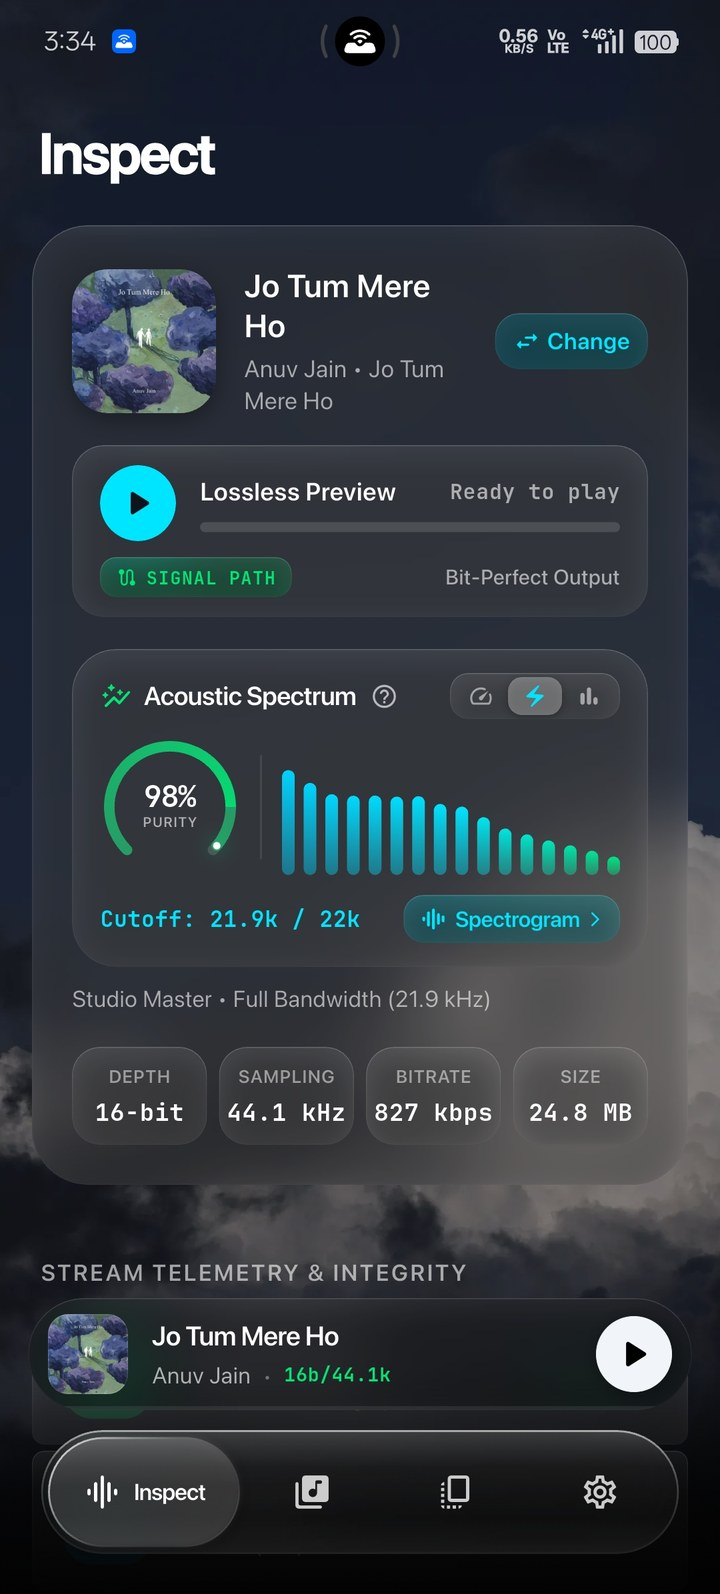
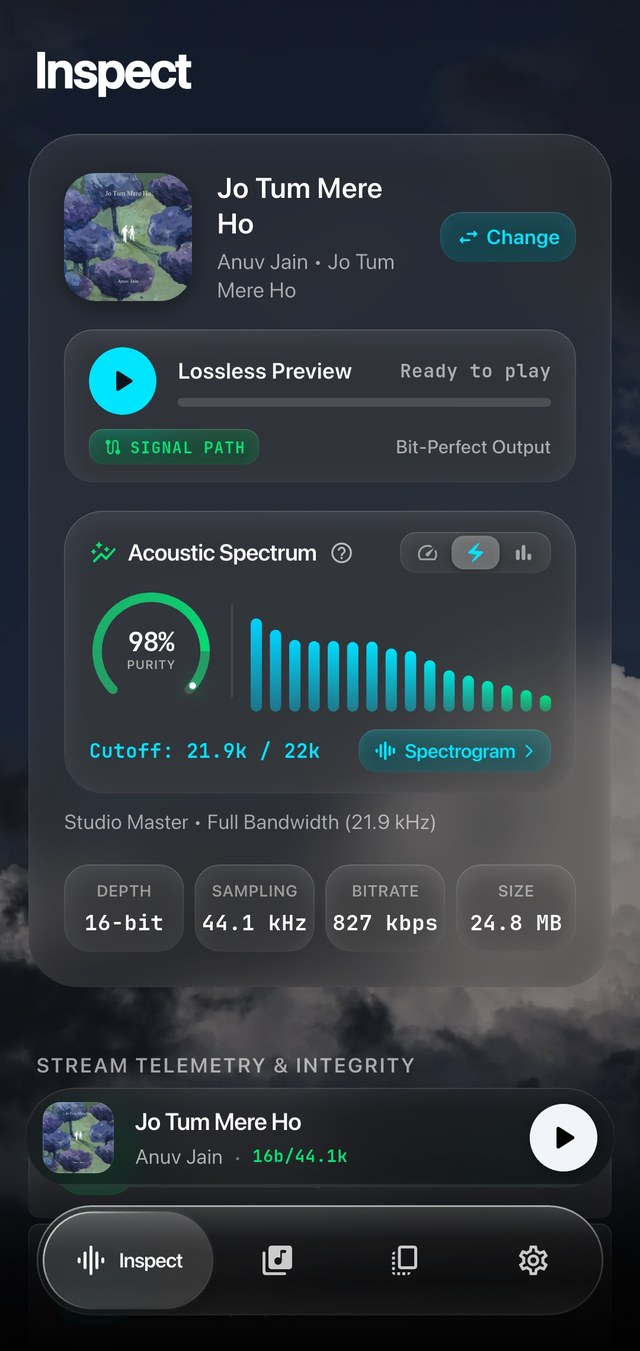
docs(readme): Polish showcase, crop screenshots & add CI APK SHA256 checksums

diff --git a/README.md b/README.md
@@ -1,235 +1,170 @@
 <div align="center">
 
-<img src="assets/images/logo_acoustiq.png" width="84" alt="AcoustiQ Logo" />
+<img src="assets/images/logo_acoustiq.png" width="88" alt="AcoustiQ Logo" />
 
 # AcoustiQ
 
-**Studio-grade lossless FLAC forensic inspector, bit-perfect audio verifier, and audiophile player for Android.**
+**Lossless FLAC forensic inspector, USB bit-perfect player & smart duplicate resolver for Android.**
 
-Verify genuine studio masters · Spot MP3-to-FLAC fakes · Resolve duplicates · Listen with synced lyrics & USB DAC pass-through
+<p>
+  <a href="https://github.com/Clash-Projects/acoustiq/releases/latest">
+    <img src="https://img.shields.io/github/v/release/Clash-Projects/acoustiq?style=for-the-badge&color=00E5FF&label=Release" alt="Latest Release" />
+  </a>
+  <a href="https://github.com/Clash-Projects/acoustiq/blob/main/LICENSE">
+    <img src="https://img.shields.io/badge/License-GPL--3.0-2563EB?style=for-the-badge" alt="GPL-3.0 License" />
+  </a>
+  <img src="https://img.shields.io/badge/Android-8.0%2B-3DDC84?style=for-the-badge&logo=android&logoColor=white" alt="Android 8.0+" />
+  <img src="https://img.shields.io/badge/Offline-100%25-7C3AED?style=for-the-badge" alt="100% Offline" />
+</p>
 
-<br />
+<p>
+  <a href="https://github.com/Clash-Projects/acoustiq/releases/latest">
+    <img src="https://img.shields.io/badge/Download_APK-Latest_Release-00C853?style=for-the-badge&logo=android&logoColor=white" alt="Download Latest APK" />
+  </a>
+  &nbsp;
+  <a href="https://discord.gg/DmyM2p2fMe">
+    <img src="https://img.shields.io/badge/Discord-Join_Community-5865F2?style=for-the-badge&logo=discord&logoColor=white" alt="Discord Community" />
+  </a>
+</p>
 
-[![Release](https://img.shields.io/github/v/release/Clash-Projects/acoustiq?style=flat-square&color=00E5FF&label=Release)](https://github.com/Clash-Projects/acoustiq/releases)
-[![Flutter](https://img.shields.io/badge/Flutter-3.50.0-02569B?style=flat-square&logo=flutter&logoColor=white)](https://flutter.dev)
-[![Dart](https://img.shields.io/badge/Dart-3.14.0-0175C2?style=flat-square&logo=dart&logoColor=white)](https://dart.dev)
-[![Android](https://img.shields.io/badge/Android-API%2026--35-3DDC84?style=flat-square&logo=android&logoColor=white)](https://developer.android.com)
-[![License](https://img.shields.io/badge/License-GPL--3.0-blue?style=flat-square)](#license)
-[![Offline](https://img.shields.io/badge/100%25-Offline-blueviolet?style=flat-square)](#privacy--security)
-[![Discord](https://img.shields.io/badge/Discord-Community-5865F2?style=flat-square&logo=discord&logoColor=white)](https://discord.gg/DmyM2p2fMe)
-
-<br />
-
-[Features](#features) · [Screenshots](#screenshots) · [Get Started](#get-started) · [Architecture](#architecture) · [Privacy](#privacy--security) · [Community](#community--support) · [License](#license)
+<p>
+  <a href="#screenshots">Screenshots</a> ·
+  <a href="#features">Features</a> ·
+  <a href="#download--install">Download</a> ·
+  <a href="#build-from-source">Build from Source</a> ·
+  <a href="#privacy--security">Privacy</a>
+</p>
 
 </div>
 
-<br />
+---
 
 ## Why AcoustiQ?
 
-A `.flac` extension or `24-bit / 96 kHz` tag doesn't guarantee lossless audio. Lossy MP3/AAC files transcoded into FLAC containers look identical in standard file managers and music players.
+A `.flac` extension or `24-bit / 96 kHz` tag does not guarantee genuine lossless audio. Low-bitrate MP3 and AAC files transcoded into FLAC containers look identical in standard players and file managers.
 
-AcoustiQ runs **100% offline** forensic analysis right on your phone — pairing binary `STREAMINFO` MD5 validation with Cooley-Tukey FFT & Welch PSD spectral roll-off inspection — alongside a full audiophile playback engine featuring USB UAC1/UAC2 bit-perfect pass-through, offline word/line-synced lyrics, and a smart duplicate resolver.
+AcoustiQ inspects every file **100% offline** on your device — combining binary `STREAMINFO` MD5 validation with Cooley-Tukey FFT & Welch PSD spectral roll-off analysis — paired with a native USB UAC1/UAC2 bit-perfect player, synced offline lyrics, and a smart duplicate resolver.
 
-<br />
-
-## Features
-
-<table>
-  <tr>
-    <td width="50%">
-      <h3>🔬 Forensic Inspector & Spectrogram</h3>
-      <ul>
-        <li>Bilinear Inferno STFT spectrogram visualization</li>
-        <li>Welch PSD high-frequency cutoff detection (16–22+ kHz)</li>
-        <li>Instant detection of fake MP3-to-FLAC upscales</li>
-        <li>Full binary bitstream telemetry: bit depth, sample rate, MD5, Vorbis comments</li>
-      </ul>
-    </td>
-    <td width="50%">
-      <h3>🛡 Library Audit & MD5 Verification</h3>
-      <ul>
-        <li>Verifies audio frames against embedded FLAC <code>STREAMINFO</code> MD5</li>
-        <li>Detects bit-rot, truncated downloads, and file corruption</li>
-        <li>Interactive health breakdown across your entire music library</li>
-        <li>One-tap lossless export for album artwork and embedded lyrics</li>
-      </ul>
-    </td>
-  </tr>
-  <tr>
-    <td width="50%">
-      <h3>🎯 Smart Duplicate Resolver</h3>
-      <ul>
-        <li>Multi-stage matching (exact MD5 hash, metadata, normalized title/artist, duration delta)</li>
-        <li>AcoustiQ Pick auto-ranks genuine masters over upscales or redundant copies</li>
-        <li>Adaptive mobile cards & tablet side-by-side comparison matrix</li>
-        <li>Inline A/B audio preview bar with real-time scrub</li>
-      </ul>
-    </td>
-    <td width="50%">
-      <h3>⚡ Native Audio Engine & USB Bit-Perfect Path</h3>
-      <ul>
-        <li>Direct kernel USB isochronous UAC1/UAC2 driver (<code>usbiso.c</code>)</li>
-        <li>16-bit, 24-bit packed, 32-bit, and float PCM decoding in <code>NativeAudioEngine.kt</code></li>
-        <li>Low-latency AAudio & OpenSL ES output (<code>nativeout.c</code>) with automatic fallback</li>
-        <li>Honest Roon-style Signal Path telemetry: shows <code>Bit-Perfect</code> strictly when USB DAC rate & depth match cleanly</li>
-      </ul>
-    </td>
-  </tr>
-</table>
-
-### Audiophile Player, Lyrics & Design System
-
-- **Dedicated Full-Screen Player & Floating MiniPlayer** — Dynamic artwork ambient backdrop, live Signal Path status pill, queue sheet playback controls, and swipe-dismissable floating MiniPlayer.
-- **Offline Word/Line-Synced Lyrics Stage** — 60 fps interpolated sweep, breathing interlude dots, RTL support, clickable seek lines, plus customization dialog (`Default`, `Flow`, `Halo` styles, alignment, font scaling, `.lrc` export).
-- **Liquid Glass & Matte Surface Mode** — Switch freely between WWDC25 frosted translucent Liquid Glass and high-contrast opaque **Matte Surface Mode** (`Liquid Glass = OFF`) for maximum clarity and battery efficiency.
-- **240 Hz Physics Navigation Dock** — Sub-stepped semi-implicit Euler capsule dock with proportional tab scaling and Monochrome/Accent parity.
-- **6 Accent Themes + 4 Typography Families** — Cyan, Amber, Emerald, Violet, Crimson, **Monochrome**, plus custom HSV color picker; `SF Pro`, `Geist Sans`, `Plus Jakarta Sans`, and `Inter`; Dark, Light, and pure AMOLED modes.
-
-<br />
+---
 
 ## Screenshots
 
-<div align="center">
+<p align="center">
+  <img src="screenshots/01_inspect_lossless.jpg" width="195" alt="Forensic Inspector" />
+  &nbsp;
+  <img src="screenshots/02_spectrogram_cutoff.jpg" width="195" alt="STFT Spectrogram Cutoff" />
+  &nbsp;
+  <img src="screenshots/06_comparison_matrix.jpg" width="195" alt="A/B Forensic Matrix" />
+  &nbsp;
+  <img src="screenshots/08_synced_lyrics.jpg" width="195" alt="60fps Synced Lyrics Stage" />
+</p>
 
-| 🔬 Forensic Inspector | 📊 STFT Spectrogram & Cutoff | 📈 Library Audit & Health |
-| :---: | :---: | :---: |
-| <img src="screenshots/01_inspect_lossless.jpg" width="260" alt="Forensic Inspector" /> | <img src="screenshots/02_spectrogram_cutoff.jpg" width="260" alt="Spectrogram Cutoff" /> | <img src="screenshots/03_audit_library.jpg" width="260" alt="Audit Library" /> |
-| **Studio Master vs Re-Encode Telemetry** | **Cooley-Tukey FFT Dead-Zone Analysis** | **Batch Library Verification Scan** |
+<p align="center">
+  <em>Forensic Inspector · Spectrogram Dead-Zone · A/B Compare Matrix · 60fps Synced Lyrics</em>
+</p>
 
+<details>
+<summary>📸 View More Screens (Library Audit, Duplicate Resolver, Comparison Sheet & Full Player)</summary>
 <br />
+<p align="center">
+  <img src="screenshots/03_audit_library.jpg" width="195" alt="Library Audit & Health" />
+  &nbsp;
+  <img src="screenshots/04_duplicates_resolver.jpg" width="195" alt="Smart Duplicate Resolver" />
+  &nbsp;
+  <img src="screenshots/05_comparison_sheet.jpg" width="195" alt="Encapsulated Comparison Sheet" />
+  &nbsp;
+  <img src="screenshots/07_audiophile_player.jpg" width="195" alt="Dedicated Audiophile Player" />
+</p>
+</details>
 
-| 🎯 Smart Duplicate Resolver | 📱 Encapsulated Comparison | 🖥 Full Forensic Matrix |
-| :---: | :---: | :---: |
-| <img src="screenshots/04_duplicates_resolver.jpg" width="260" alt="Duplicates Resolver" /> | <img src="screenshots/05_comparison_sheet.jpg" width="260" alt="Comparison Sheet" /> | <img src="screenshots/06_comparison_matrix.jpg" width="260" alt="Comparison Matrix" /> |
-| **Exact MD5 & Purity Detection** | **AcoustiQ Pick & Quick Spec Diff** | **A/B Lossless Preview & Deep Matrix** |
+---
 
-<br />
+## Features
 
-| 🎵 Audiophile Player | 📝 Synced Lyrics Stage | ⚙ Glass & System Studio |
-| :---: | :---: | :---: |
-| <img src="screenshots/07_audiophile_player.jpg" width="260" alt="Audiophile Player" /> | <img src="screenshots/08_synced_lyrics.jpg" width="260" alt="Synced Lyrics Stage" /> | <img src="screenshots/09_settings_system.jpg" width="260" alt="Settings & System" /> |
-| **Ambient Artwork & Signal Path Pill** | **60fps Word/Line Synced Offline Lyrics** | **Liquid Glass / Matte, Accents & Updater** |
+| Capability | Highlights |
+| :--- | :--- |
+| **🔬 Forensic Inspector** | Bilinear Inferno STFT spectrogram, Welch PSD cutoff detection (`16–22+ kHz`), instant MP3-to-FLAC upscale detection, and full bitstream telemetry |
+| **🛡 MD5 & Library Audit** | Batch scan across your music folders against embedded FLAC `STREAMINFO` MD5 to spot bit-rot or corrupted files, plus lossless cover art & `.lrc` export |
+| **🎯 Smart Duplicate Resolver** | Multi-stage matching (MD5, normalized metadata, live/extended duration delta), AcoustiQ Pick ranking, mobile/tablet diff views & inline A/B preview |
+| **⚡ Native Hi-Res & USB DAC** | `16`/`24`/`32`-bit & float PCM decoding (`NativeAudioEngine.kt`), direct kernel USB UAC1/UAC2 driver (`usbiso.c`), AAudio / OpenSL ES (`nativeout.c`) & honest Signal Path |
+| **🎵 Player & Offline Lyrics** | Full-screen artwork blur player, swipeable MiniPlayer, and 60fps Word/Line-synced offline lyrics (`Default`, `Flow`, `Halo` styles, RTL support & `.lrc` export) |
+| **✨ Glass, Matte & Themes** | Switch between WWDC25 frosted Liquid Glass and high-contrast opaque **Matte Mode**, 240 Hz Euler dock, 6 accents (including Monochrome) & Dark/Light/AMOLED |
 
-</div>
+---
 
-<br />
+## Download & Install
 
-## Get Started
+1. Download **`AcoustiQ-vX.Y.Z.apk`** (and optional `.sha256` checksum) from [**GitHub Releases**](https://github.com/Clash-Projects/acoustiq/releases/latest).
+2. Install the signed APK on Android **8.0+** (API 26+) and grant storage access to scan your local library.
+3. *(Optional)* Connect a UAC1/UAC2 USB DAC and tap the **Signal Path** badge in the player to monitor hardware pass-through status.
 
-Download the latest signed APK directly from [GitHub Releases](https://github.com/Clash-Projects/acoustiq/releases), or build from source below.
+> **Upgrading from `v1.0.0`?** Starting with `v2.0.0`, AcoustiQ uses the signed `com.clashprojects.acoustiq` application ID, installing cleanly alongside legacy template builds.
 
-> **Upgrading from `v1.0.0` / template builds?** `v2.0.0` uses the official **`com.clashprojects.acoustiq`** package ID signed with AcoustiQ's release key, so it installs cleanly alongside or fresh over legacy `com.example.flac_toolkit` builds.
+---
+
+## Build from Source
+
+<details>
+<summary>🛠 Prerequisites, Build Commands, Release Signing & Architecture</summary>
 
 ### Prerequisites
+- **Flutter** `3.50.0+` / **Dart** `3.14.0+`
+- **Android SDK** (Compile 36 / Min 26 / Target 35) & **NDK** `28.2.13676358`
+- **JDK** `17` / **Gradle** `9.3.1` (AGP `9.1.1`)
 
-| Tool | Version |
-|------|---------|
-| Flutter | 3.50.0+ |
-| Dart | 3.14.0+ |
-| Android SDK | Compile 36 / Min 26 / Target 35 |
-| Android NDK | 28.2.13676358 |
-| JDK | 17 |
-| Gradle | 9.3.1 (AGP 9.1.1) |
-
-### Build & Run
+### Local Commands
 
 ```bash
-# Clone
 git clone https://github.com/Clash-Projects/acoustiq.git
 cd acoustiq
-
-# Install dependencies
 flutter pub get
-
-# Verify analyzer & unit tests
 flutter analyze --no-fatal-infos
 flutter test
-
-# Run on connected device (hot reload)
-flutter run
-
-# Build signed / shrunk release APK (R8 enabled)
 flutter build apk --release
 ```
 
-### Release Signing (Optional Local Keystore)
+### Wireless Deploy & Release Signing
+- Run `./deploy.sh` after `adb connect <DEVICE_IP>:5555` for quick wireless installs.
+- Add gitignored `android/key.properties` + `.jks` locally (or `ANDROID_KEYSTORE_*` GitHub Secrets) for release signing; Gradle falls back cleanly to debug signing when absent.
 
-Create `android/key.properties` pointing to your `.jks` keystore (both `key.properties` and `*.jks` are gitignored), or configure `ANDROID_KEYSTORE_*` secrets in GitHub Actions for CI builds. Without local signing properties, Gradle falls back cleanly to debug signing for local testing.
+### Architecture Overview
 
-### Wireless Deploy
-
-```bash
-adb connect <DEVICE_IP>:5555
-./deploy.sh
-```
-
-<br />
-
-## Architecture
-
-```
-.github/workflows/build.yml                 # Analyze + test gate, signed tag & nightly APK releases
+```text
+.github/workflows/build.yml        CI verify gate + signed releases
 android/app/src/main/
 ├── cpp/
-│   ├── usbiso.c                            # Kernel USBFS isochronous transfers (UAC1/UAC2 bit-perfect)
-│   ├── nativeout.c                         # Low-latency AAudio & OpenSL ES driver
-│   └── CMakeLists.txt                      # CMake 3.22.1 & 16 KB Android 15 page-size alignment
+│   ├── usbiso.c                   Kernel USBFS UAC1/UAC2 driver
+│   ├── nativeout.c                AAudio & OpenSL ES output
+│   └── CMakeLists.txt             16 KB Android 15 page alignment
 └── kotlin/com/clashprojects/acoustiq/
-    ├── MainActivity.kt                     # Platform channels, storage permissions & playback fallback
-    └── NativeAudioEngine.kt                # Multi-depth PCM decoder & USB DAC handshake coordinator
+    ├── MainActivity.kt            Platform channels & fallback
+    └── NativeAudioEngine.kt       PCM decoder & USB DAC bridge
 lib/
-├── main.dart                               # App bootstrap & notification channel init
-├── models/
-│   ├── app_settings.dart                   # Persistent preferences, themes, glass/matte & wallpapers
-│   └── flac_info.dart                      # Track telemetry & spectral classification model
-├── screens/
-│   ├── inspect_screen.dart                 # Forensic inspector & bilinear spectrogram
-│   ├── audit_screen.dart                   # Batch library verification scanner
-│   ├── duplicates_screen.dart              # Multi-vector duplicate resolver & matrix
-│   ├── audiophile_player_screen.dart       # Full-screen player, signal path pill & lyrics mode
-│   └── settings_screen.dart                # Visual studio, typography, engine & updater hub
-├── services/
-│   ├── flac_parser.dart                    # Binary FLAC metadata, MD5 & embedded block parser
-│   ├── audio_dsp.dart                      # Cooley-Tukey FFT & Welch PSD roll-off analyzer
-│   ├── duplicate_detector.dart             # Multi-stage hash/metadata/duration matcher
-│   ├── native_audio_service.dart           # MethodChannel bridge for C++/Kotlin playback & Signal Path
-│   ├── audio_playback_service.dart         # Queue & preview playback state coordinator
-│   └── app_update_service.dart             # GitHub Releases semver + nightly APK updater
-├── utils/
-│   └── lyrics_parser.dart                  # Word-synced (ELRC), LRC & plain lyrics parser
-└── widgets/
-    ├── liquid_lens_dock.dart               # 240 Hz Euler physics navigation dock (Glass & Matte)
-    ├── audiophile_mini_player.dart         # Floating swipe-dismissable MiniPlayer
-    ├── player_lyrics_stage.dart            # 60 fps lyrics stage with edge-fade mask
-    ├── player_lyrics_options_dialog.dart   # Style, scale, alignment & .lrc export sheet
-    ├── signal_path_sheet.dart              # Interactive hardware Signal Path inspector
-    ├── audio_spectrum_stage.dart           # Spectrogram & roll-off canvas visualizer
-    └── glass_surface.dart                  # Translucent Liquid Glass & alpha-blended Matte renderer
+├── main.dart                      App entry & channel bootstrap
+├── models/                        AppSettings & FlacInfo models
+├── screens/                       Inspect, Audit, Duplicates, Player
+├── services/                      FLAC parser, FFT DSP, USB, Updater
+├── utils/                         Synced/plain lyrics parser
+└── widgets/                       Euler dock, lyrics, glass & matte
 ```
 
-<br />
+</details>
+
+---
 
 ## Privacy & Security
 
-AcoustiQ audio analysis, fingerprinting, playback, and lyrics parsing are **100% offline and private**. Audio files, metadata, and hashes never leave your device. The only optional network request is user-initiated update checking against `api.github.com/repos/Clash-Projects/acoustiq`. Zero analytics, zero ads, zero tracking.
-
-<br />
+All forensic inspection, spectral math, duplicate matching, lyrics parsing, and playback run **100% offline**. Audio data and hashes never leave your device. The only optional network request is user-initiated update checking against `api.github.com/repos/Clash-Projects/acoustiq`. Zero analytics, zero ads, zero telemetry.
 
 ## Community & Support
 
 - **Discord**: [Join Clash Projects](https://discord.gg/DmyM2p2fMe)
 - **Telegram**: [@clashprojects](https://t.me/clashprojects)
-- **Issues & Bug Reports**: [GitHub Issues](https://github.com/Clash-Projects/acoustiq/issues)
-
-<br />
+- **Issues**: [GitHub Issues](https://github.com/Clash-Projects/acoustiq/issues)
 
 ## License
 
-This project is licensed under the **GNU General Public License v3.0** — see [LICENSE](LICENSE) for full terms.
-
-<br />
+Licensed under the **GNU General Public License v3.0** — see [LICENSE](LICENSE).
 
 <div align="center">
 
